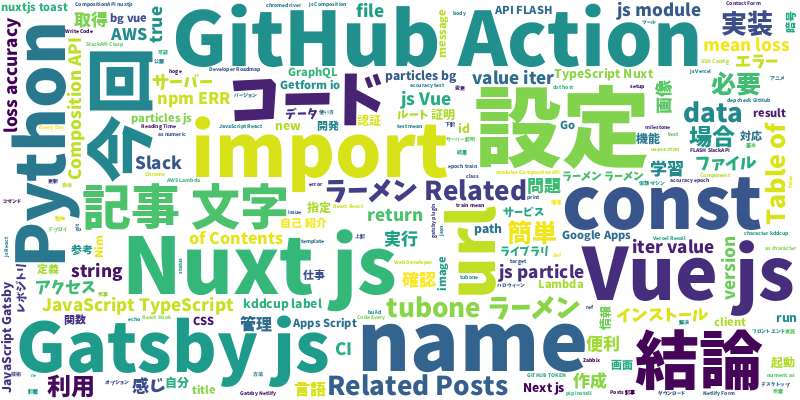
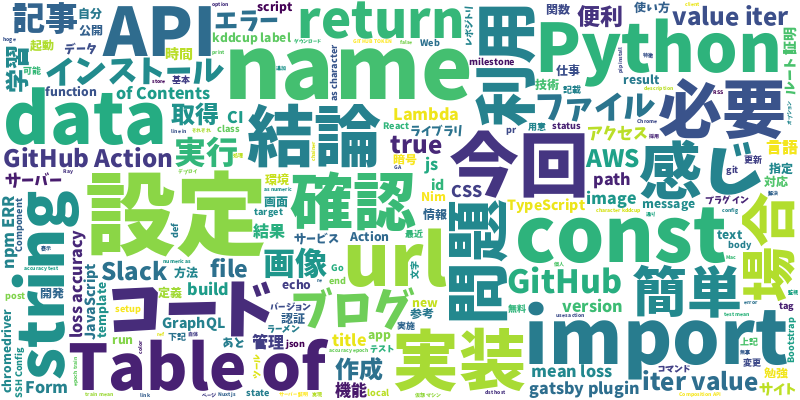
fix

diff --git a/src/main.py b/src/main.py
@@ -1,6 +1,6 @@
 # -*- coding: utf-8 -*-
 from utils import generate_exclude_list
-from tweet import Tweet
+# from tweet import Tweet
 from web import Web
 from makarov import run_makarov
 from wc import WC
@@ -30,6 +30,7 @@ def main():
 #     wordcloud_trend = WC(tw.get_trends_tokyo(), [])
 #     wordcloud_trend.generate_word_cloud("trend_tokyo.png")
     web = Web(BASE_URL, WEB_EXCLUDE_LIST)
+    print(web.get_text_by_base_url())
     wordcloud_blog_words = WC(web.get_text_by_base_url(), exclude_list)
     wordcloud_blog_words.generate_word_cloud("word_cloud_blog.png", alpha=False, mask="rect")
     wordcloud_blog_words.generate_word_cloud("word_cloud_blog_large.png", alpha=True, mask="rect_large")

diff --git a/src/web.py b/src/web.py
@@ -50,7 +50,7 @@ class Web:
     def __get_text_by_url(self, url):
         res = self.__requests_get(url)
         soup = BeautifulSoup(res.text, "html.parser")
-        content = soup.find("div", class_='content')
+        content = soup.find("div", attrs={"data-testid": "innerHTML"})
         if content:
             return content.get_text()
         else:
